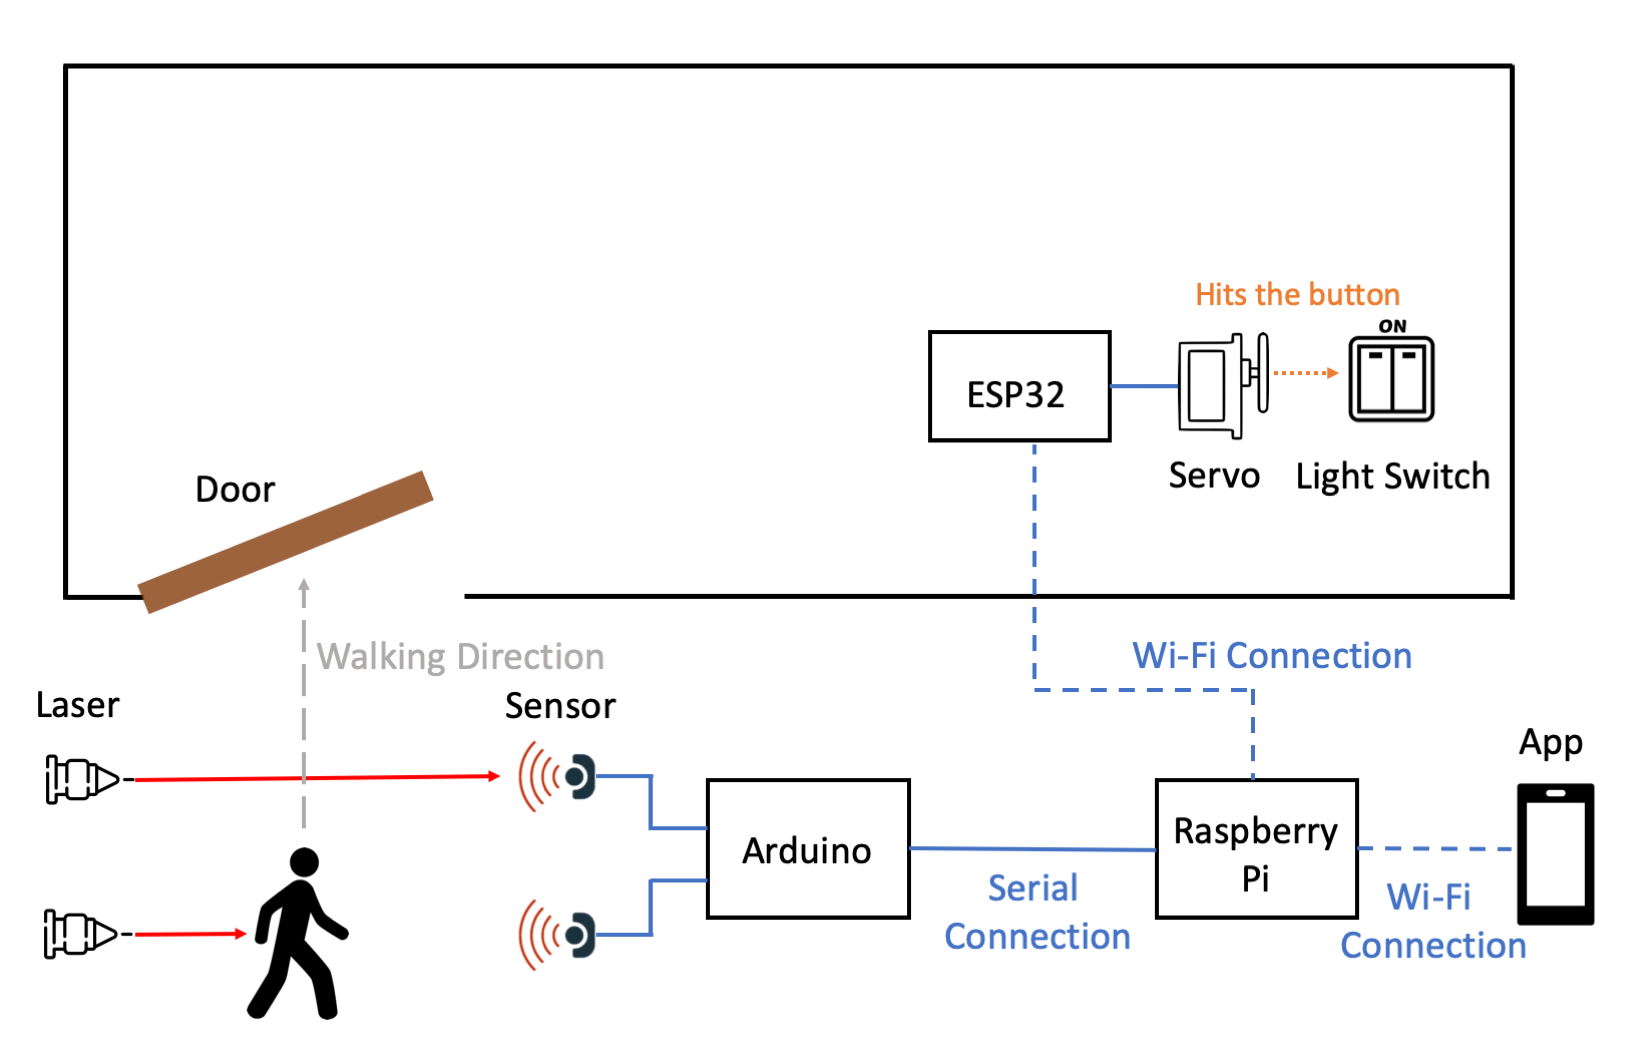
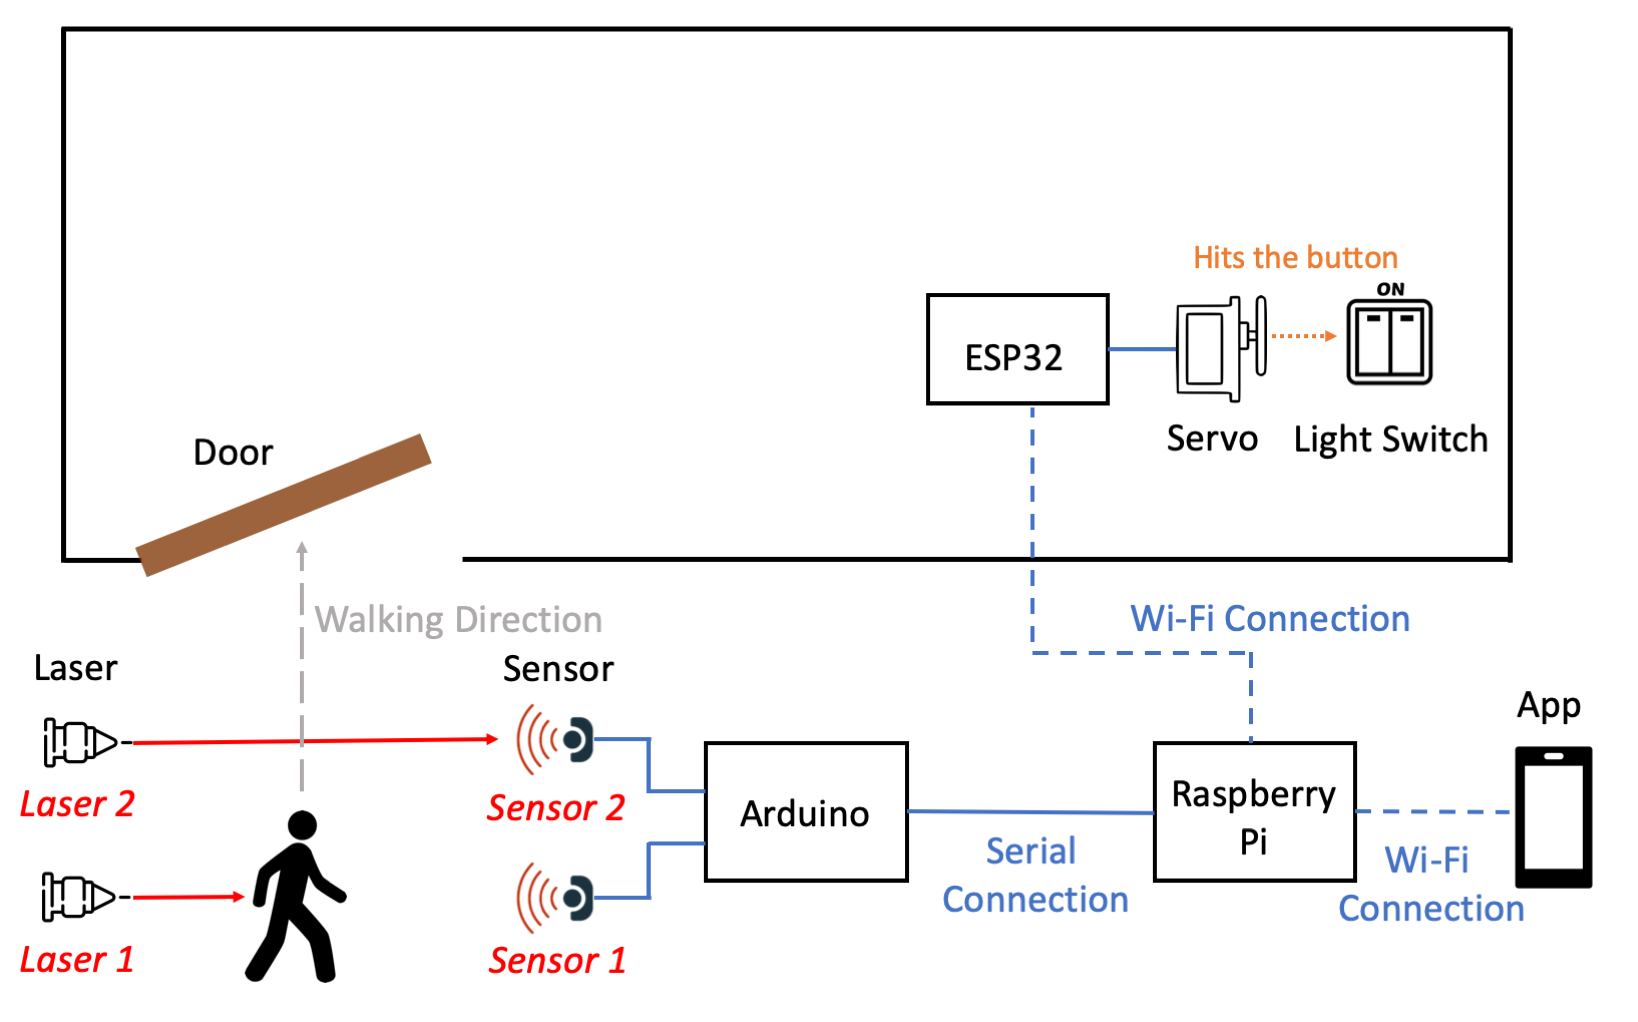
readme

diff --git a/README.md b/README.md
@@ -22,7 +22,7 @@ The image above shows our system architecture. Our system consists of different 
    * ESP32 turns on/off the light switches following the commands from *Raspberry Pi via Wi-Fi connections*.
 3. **Raspberry Pi**
    * Raspberry acts at the control conter of the system.
-   * Based on the information from the arduino board, it records the number of people currently in the room.
+   * Based on the information from the arduino board, it records *the number of people currently in the room*.
    * If someone enters an orginally empty room, it *automatically* sends a message to ESP32 and turns on the lights.
    * Contrastly, when the last person left the room, it *automatically* sends a message to ESP32 and turns off the lights.
 4. **App**
@@ -31,12 +31,14 @@ The image above shows our system architecture. Our system consists of different 
    * The app is based on Android and communicates with Raspberry Pi *via Wi-Fi connection* as well.
 
 
-### When a person enters the room...
+### Detecting a Person Entering/ Exiting the Room...
 <p align="center">
    <img src="./images/enter_room.png" alt="image" width="750"/>
    </br>
-   The laser detector
+   When a person enters the room, Laser 1 is blocked first.
 </p>
+
+When a person enters the room, his/her body would **block the laser beam**, following the order of laser 1 and laser 2. This means that **sensor 1 would first detect "No Laser", and then sensor 2 would detect "No Laser"** as well. Since the arduino board constantly gets the information from the two sensors, it is able to detect and send a message to Raspberry Pi when a person enters. Similarly, the arduino board is also able to detect a person exiting, since this would require sensor 2 detecting "No Laser" first.
 
 ## Implementation
 #### Light switches are pressed with external servos
